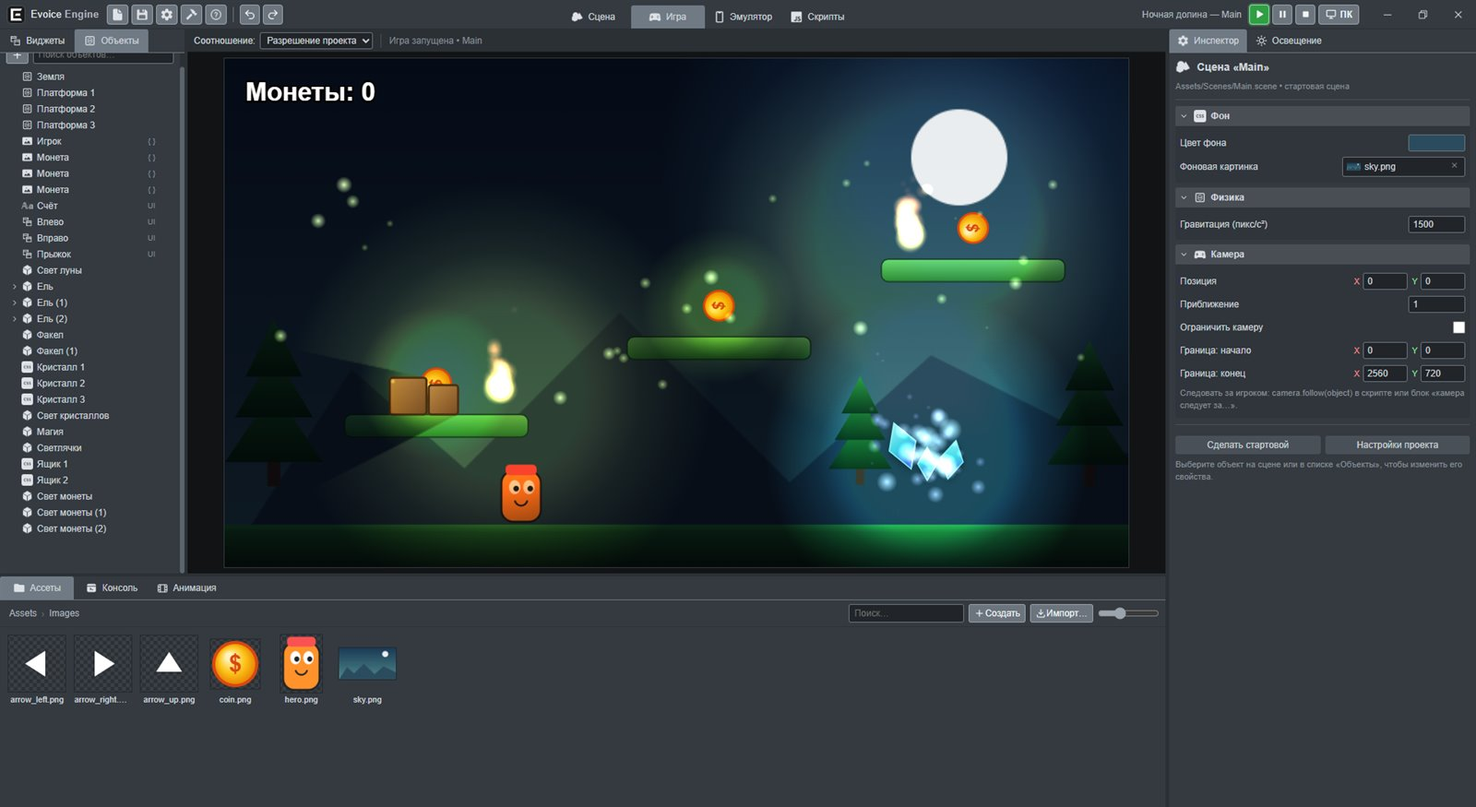
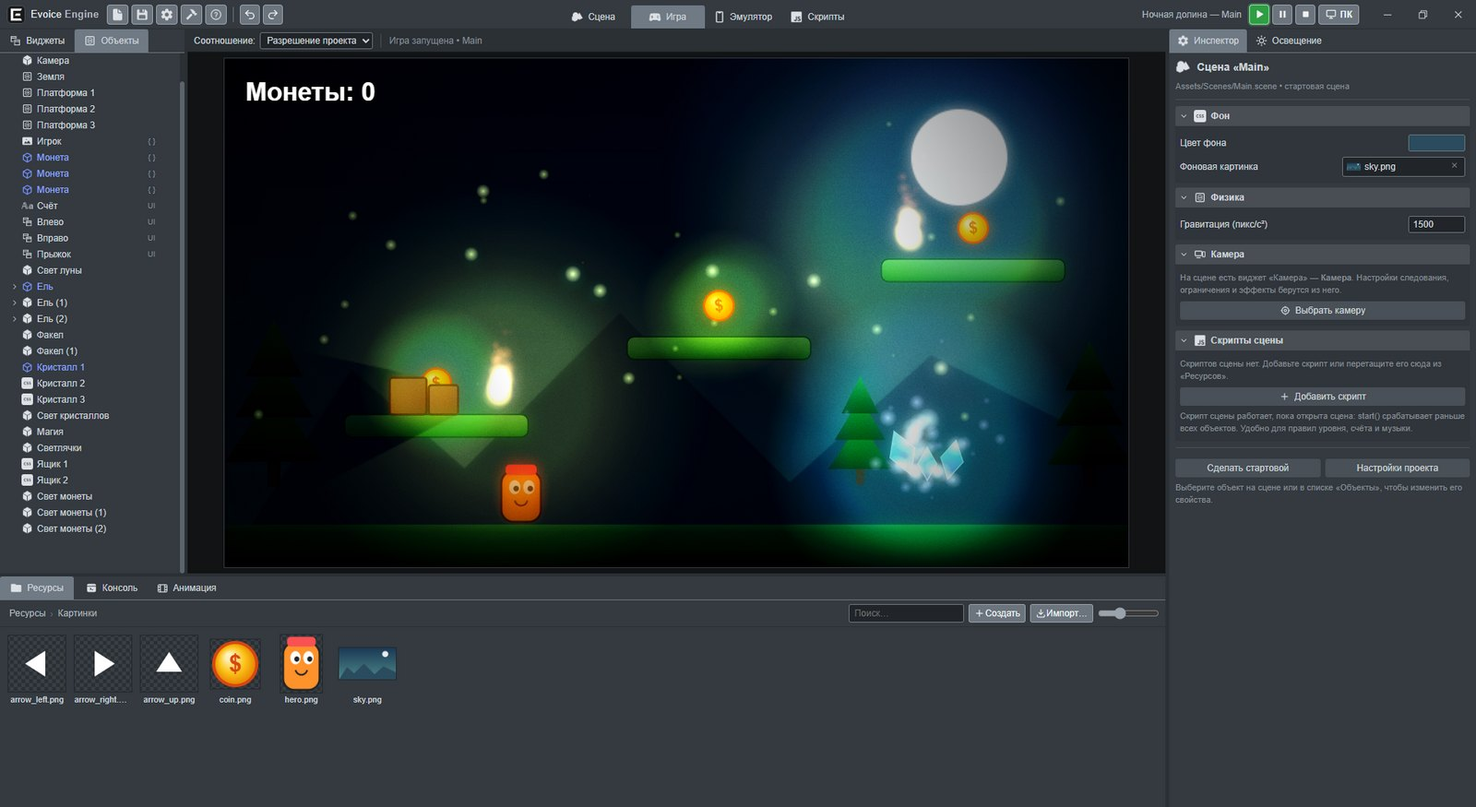
Обновить README: возможности версий 1.5 и новые скриншоты
Раздел «Что нового»: Evoice Remote, камера и постобработка, префабы,
готовое управление игроком, плавности анимации, менеджер проектов
с документацией и автообновлением.
Все скриншоты пересняты в текущей версии, старый список проектов
заменён новым менеджером проектов. В установке — Evoice-Remote.apk
и автообновление.

diff --git a/README.md b/README.md
@@ -13,7 +13,7 @@
 ![downloads](https://img.shields.io/github/downloads/Evoice-dev/Evoice-Engine-Releases/total?label=downloads&color=20c997)
 ![builds](https://img.shields.io/badge/builds-HTML5%20%7C%20Windows%20%7C%20Android-e8590c)
 
-[Возможности](#возможности) · [Скриншоты](#скриншоты) · [Установка](#установка) · [Лицензия](#лицензия)
+[Возможности](#возможности) · [Что нового](#что-нового) · [Скриншоты](#скриншоты) · [Установка](#установка) · [Лицензия](#лицензия)
 
 <br>
 
@@ -25,9 +25,9 @@
 
 ## О проекте
 
-**Evoice Engine** — визуальный редактор и движок для 2D игр в духе Unity, но проще. Собирайте сцену из готовых виджетов, программируйте блоками, как в Scratch, или пишите код на JavaScript и Python, проверяйте игру на эмуляторе телефона и собирайте её одной кнопкой для Яндекс Игр, Windows или Android.
+**Evoice Engine** — визуальный редактор и движок для 2D игр в духе Unity, но проще. Собирайте сцену из готовых виджетов и префабов, программируйте блоками, как в Scratch, или пишите код на JavaScript и Python. Проверяйте игру на эмуляторе телефона или прямо на своём Android-телефоне через приложение Evoice Remote и собирайте её одной кнопкой для Яндекс Игр, Windows или Android.
 
-> Здесь публикуются установщики и описания версий. Исходный код движка закрыт.
+> Здесь публикуются установщики, приложение Evoice Remote и описания версий. Исходный код движка закрыт.
 
 ## Возможности
 
@@ -36,61 +36,149 @@
 <td width="50%" valign="top">
 
 ### 🎬 Редактор в стиле Unity
-Сцена, дерево объектов, инспектор, ассеты, отмена и повтор. Якоря и адаптив под любые экраны, предпросмотр разных разрешений. Перетаскивание файлов прямо из проводника.
+Сцена, дерево объектов, инспектор, ресурсы, отмена и повтор. Якоря и адаптив под любые экраны, предпросмотр разных разрешений. Перетаскивание файлов прямо из проводника и ресурсов прямо в инспектор.
 
 </td>
 <td width="50%" valign="top">
 
 ### 🧩 Три способа программировать
-Блоки как в Scratch, JavaScript и Python с подсказками в редакторе. Глобальные переменные и доступ к переменным других скриптов. Списки, типы данных, функции.
+Блоки как в Scratch, JavaScript и Python с подсказками в редакторе. Глобальные переменные, скрипты сцены, доступ к переменным других скриптов. Списки, типы данных, функции.
 
 </td>
 </tr>
 <tr>
 <td valign="top">
 
-### 📱 Эмулятор телефона
-Популярные модели, портретная и альбомная ориентация, наклон (акселерометр), встряска, вибрация и экранный джойстик — всё проверяется без телефона.
+### 📦 Префабы
+Готовый объект со всеми компонентами, скриптами и дочерними объектами сохраняется в «Ресурсы» и ставится на любые сцены. Одна правка префаба обновляет все его копии во всех сценах.
 
 </td>
+<td valign="top">
+
+### 🎥 Камера и постобработка
+Камера — виджет на сцене: следование за игроком, плавность, границы. Виньетка, зерно, цвет, свечение, размытие, пикселизация и готовые наборы «Кино», «Ретро», «Ночь», «Ужас».
+
+</td>
+</tr>
+<tr>
+<td valign="top">
+
+### 🕹 Готовое управление
+Платформер, вид сверху, раннер или корабль — одним компонентом. Клавиатура, экранный джойстик и геймпад Xbox с вибрацией работают сразу.
+
+</td>
+<td valign="top">
+
+### 📱 Эмулятор и свой телефон
+Популярные модели, портретная и альбомная ориентация, наклон, встряска, вибрация. А с приложением **Evoice Remote** игра запускается на вашем телефоне с настоящими датчиками.
+
+</td>
+</tr>
+<tr>
 <td valign="top">
 
 ### ⚙ Физика и триггеры
-Rigidbody 2D и Collider 2D на Box2D, упругость и трение, триггер-зоны с событиями «вошёл» и «вышел».
+Rigidbody 2D и Collider 2D на Box2D, упругость, трение и заморозка осей, триггер-зоны с событиями «вошёл» и «вышел».
 
 </td>
-</tr>
-<tr>
 <td valign="top">
 
 ### ✨ Частицы и освещение
 Огонь, дым, искры, взрыв, магия, снег и дождь. 2D-освещение: точечный свет, прожекторы, общий свет, тени и мерцание.
 
 </td>
+</tr>
+<tr>
 <td valign="top">
 
-### 🎞 Анимации
-Таймлайн с ключевыми кадрами и плавностью переходов. Режим записи: двигайте объект — ключи создаются сами. Анимация градиентов и цвета.
+### 🎞 Анимация, атласы и видео
+Таймлайн с ключевыми кадрами, 18 готовых плавностей и режим записи. Атласы спрайтов с именованными анимациями, виджет «Видео» для MP4 и WebM.
+
+</td>
+<td valign="top">
+
+### 🔊 Звук
+Музыка и эффекты, пространственный звук, эхо, реверберация, фильтры и готовые наборы: пещера, под водой, рация.
 
 </td>
 </tr>
 <tr>
 <td valign="top">
 
-### 🔊 Звук
-Музыка и эффекты, пространственный звук (громкость и стерео по расстоянию до игрока), эхо, реверберация, фильтры и готовые наборы: пещера, под водой, рация.
+### 🚀 Сборка одной кнопкой
+HTML5 и Яндекс Игры, Windows `.exe`, Android `.apk` без Android Studio — нужные компоненты ставятся прямо из движка. Система сохранений с облаком Яндекс Игр.
 
 </td>
 <td valign="top">
 
-### 📦 Сборка одной кнопкой
-HTML5 и Яндекс Игры, Windows `.exe`, Android `.apk` без Android Studio — нужные компоненты ставятся прямо из движка. Система сохранений с облаком Яндекс Игр.
+### 🗂 Менеджер проектов
+Проекты с картинкой сцены, поиск и фильтры, документация с поиском. Новые версии движок находит и ставит сам.
 
 </td>
 </tr>
 </table>
 
-Полный список возможностей каждой версии — на странице **[Releases](https://github.com/Evoice-dev/Evoice-Engine-Releases/releases)**.
+Полный список изменений каждой версии — на странице **[Releases](https://github.com/Evoice-dev/Evoice-Engine-Releases/releases)**.
+
+## Что нового
+
+### 📱 Evoice Remote — игра на своём телефоне
+
+<table>
+<tr>
+<td width="28%" align="center"><img src="images/remote-phone.jpg" alt="Приложение Evoice Remote на телефоне"></td>
+<td width="72%"><img src="images/remote-mirror.jpg" alt="Эмулятор движка повторяет экран телефона"><p align="center"><sub>Игра идёт на телефоне, а вкладка «Эмулятор» повторяет его экран</sub></p></td>
+</tr>
+</table>
+
+Приложение для Android превращает ваш телефон в экран эмулятора. Нажмите «Запуск» на вкладке «Эмулятор» — игра откроется на телефоне, а движок покажет его экран.
+
+- Наклон, встряска, компас, касания несколькими пальцами и вибрация работают от настоящих датчиков.
+- Мышью и клавиатурой в эмуляторе тоже можно играть, сообщения и ошибки игры приходят в консоль движка.
+- Телефон и компьютер должны быть в одной сети Wi-Fi: приложение само находит компьютер с открытым проектом, а движок показывает уведомление о подключении.
+- Файл **`Evoice-Remote.apk`** приложен к каждому релизу. Его можно поставить и из движка: вкладка «Эмулятор» → «Телефон» → «Установить по USB».
+
+### 🎥 Камера и постобработка
+
+<table>
+<tr>
+<td width="50%"><img src="images/camera.jpg" alt="Камера и постобработка в Инспекторе"><p align="center"><sub><b>Камера</b> — рамка на сцене это кадр игры, эффекты настраиваются в Инспекторе</sub></p></td>
+<td width="50%"><img src="images/game.jpg" alt="Игра с постобработкой"><p align="center"><sub>Та же сцена в игре: <b>виньетка, свечение и зерно</b> поверх освещения</sub></p></td>
+</tr>
+</table>
+
+Камера — отдельный виджет: следует за объектом по обеим осям или только по одной, держит цель в нужной точке экрана, плавно догоняет и не выходит за границы уровня. Постобработка накладывается на изображение камеры: виньетка, зерно, яркость, контраст, насыщенность, температура, чёрно-белое, сепия, размытие и размытие в движении, свечение, хроматическая аберрация, пикселизация и строки старого экрана. Готовые наборы — «Кино», «Ретро», «Ночь», «Сон», «Ужас», «Старый телевизор» и другие. Интерфейс игры эффекты не затрагивают.
+
+### 📦 Префабы и 🕹 готовое управление
+
+<table>
+<tr>
+<td width="50%"><img src="images/prefabs.jpg" alt="Префабы в «Ресурсах» и Инспекторе"><p align="center"><sub><b>Префабы</b>: копии отмечены синим кубиком, «Применить» обновляет все копии</sub></p></td>
+<td width="50%"><img src="images/controller.jpg" alt="Компонент «Управление игроком»"><p align="center"><sub><b>Управление игроком</b> в шаблоне «Вид сверху»: стрелки, WASD, джойстик и геймпад</sub></p></td>
+</tr>
+</table>
+
+- **Префабы.** Настройте объект на сцене и перетащите его из списка «Объекты» в «Ресурсы» — получится префаб с превью. Поставьте его на любую сцену перетаскиванием или двойным щелчком. «Применить» обновляет префаб и все копии во всех сценах, «Сбросить» возвращает копию к префабу, «Отвязать» делает её обычным объектом. В коде — `game.spawnPrefab('Враг', x, y)`, в блоках — «создать префаб».
+- **Управление игроком** (Инспектор → «Добавить компонент»): платформер, вид сверху на 8 или 4 направления, раннер, корабль. Скорость, прыжок, двойной прыжок и разгон настраиваются в Инспекторе, нужная физика добавляется сама. Новый шаблон проекта — **«Вид сверху»**.
+- **Геймпад Xbox**: кнопки, стики, курки и вибрация — блоками и в коде.
+
+### 🎞 Анимация
+
+<img src="images/animation.jpg" alt="Таймлайн и плавности" width="100%">
+<p align="center"><sub><b>Таймлайн</b> с ключевыми кадрами и меню плавностей: у каждой — график кривой</sub></p>
+
+18 готовых плавностей — от линейной до отскока и пружины, «Отзеркалить» клип задом наперёд, по горизонтали или по вертикали. Атлас спрайта: поля и промежутки между кадрами, диапазон кадров, режим «туда-обратно» и именованные анимации. Виджет «Видео» (MP4, WebM), свой курсор мыши, выход из игры блоком и командой `game.quit()`.
+
+### 🗂 Менеджер проектов и автообновление
+
+<table>
+<tr>
+<td width="50%"><img src="images/hub.jpg" alt="Менеджер проектов"><p align="center"><sub><b>Менеджер проектов</b> — отдельное окно с картинками сцен</sub></p></td>
+<td width="50%"><img src="images/docs.jpg" alt="Документация в менеджере проектов"><p align="center"><sub><b>Документация</b> по API, блокам и Python с поиском</sub></p></td>
+</tr>
+</table>
+
+Проекты показываются с картинкой стартовой сцены и размером экрана. Есть поиск, фильтр по ориентации, вид сеткой или списком, импорт перетаскиванием папки. Новые версии движок находит сам: в менеджере проектов появляется кнопка «Обновить». Обновление скачивается из движка, проверяется подпись Evoice Studio, проекты остаются на месте.
 
 ## Скриншоты
 
@@ -103,26 +191,12 @@ HTML5 и Яндекс Игры, Windows `.exe`, Android `.apk` без Android St
 </tr>
 </table>
 
-### 🎞 Анимация
-
-<img src="images/animation.jpg" alt="Таймлайн анимации" width="100%">
-<p align="center"><sub><b>Таймлайн</b> — ключевые кадры, плавность переходов и компонент «Аниматор»: кристалл покачивается, растёт и мерцает</sub></p>
-
-### 🎮 Игра и эмулятор телефона
-
-<table>
-<tr>
-<td width="50%"><img src="images/game.jpg" alt="Запущенная игра"><p align="center"><sub><b>Запуск игры</b> одной кнопкой: светлячки, факелы и магия кристаллов</sub></p></td>
-<td width="50%"><img src="images/emulator.jpg" alt="Эмулятор телефона"><p align="center"><sub><b>Эмулятор</b> Google Pixel 7 в альбомной ориентации — с наклоном, встряской и экранными кнопками</sub></p></td>
-</tr>
-</table>
-
 ### 🧩 Блоки, JavaScript и Python
 
 <table>
 <tr>
 <td width="50%"><img src="images/blocks.jpg" alt="Блочное программирование"><p align="center"><sub><b>Блоки</b> в стиле Scratch: триггеры, глобальные переменные, звук с эффектами</sub></p></td>
-<td width="50%"><img src="images/blocks-toolbox.jpg" alt="Категория блоков «Свет и частицы»"><p align="center"><sub>Категории блоков — например, <b>«Свет и частицы»</b></sub></p></td>
+<td width="50%"><img src="images/blocks-toolbox.jpg" alt="Категория блоков «Камера»"><p align="center"><sub>Категории блоков — например, <b>«Камера»</b> с эффектами</sub></p></td>
 </tr>
 <tr>
 <td><img src="images/code-js.jpg" alt="JavaScript с автодополнением"><p align="center"><sub><b>JavaScript</b> с автодополнением по всему API движка</sub></p></td>
@@ -130,15 +204,15 @@ HTML5 и Яндекс Игры, Windows `.exe`, Android `.apk` без Android St
 </tr>
 </table>
 
-### 📦 Сборка и проекты
+### 📱 Эмулятор и сборка
 
 <table>
 <tr>
+<td width="60%"><img src="images/emulator.jpg" alt="Эмулятор телефона"><p align="center"><sub><b>Эмулятор</b> Google Pixel 7 в альбомной ориентации — с наклоном, встряской и экранными кнопками</sub></p></td>
 <td width="40%" rowspan="2" align="center"><img src="images/build.jpg" alt="Окно сборки игры"><p align="center"><sub><b>Сборка</b> для HTML5, Windows и Android — компоненты Android ставятся из движка</sub></p></td>
-<td width="60%"><img src="images/hub.jpg" alt="Список проектов"><p align="center"><sub><b>Список проектов</b> со значками и датами</sub></p></td>
 </tr>
 <tr>
-<td><img src="images/splash.jpg" alt="Заставка при запуске"><p align="center"><sub>Заставка при запуске</sub></p></td>
+<td align="center"><img src="images/splash.jpg" alt="Заставка при запуске" width="60%"><p align="center"><sub>Заставка при запуске</sub></p></td>
 </tr>
 </table>
 
@@ -148,13 +222,18 @@ HTML5 и Яндекс Игры, Windows `.exe`, Android `.apk` без Android St
 2. Запустите установщик и следуйте шагам — ярлык появится на рабочем столе и в меню «Пуск».
 3. Если Windows покажет окно «Система Windows защитила ваш компьютер», нажмите **«Подробнее» → «Выполнить в любом случае»**: установщик пока не подписан сертификатом.
 
+Дальше движок обновляется сам: когда выходит новая версия, в менеджере проектов появляется кнопка «Обновить».
+
+Чтобы запускать игры на своём телефоне, установите на него **`Evoice-Remote.apk`** из того же релиза или из движка: вкладка «Эмулятор» → «Телефон».
+
 | Системные требования | |
 |---|---|
 | Система | Windows 10 или 11, 64-бит |
 | Место на диске | около 500 МБ |
 | Сборка игр для Android | интернет при первой установке компонентов (около 300 МБ, ставятся из движка) |
+| Evoice Remote | телефон на Android 7.0 или новее в одной сети Wi-Fi с компьютером |
 
-После запуска откроется список проектов — нажмите «Новый проект» и выберите шаблон «Платформер», «Кликер» или «Пустой проект». Справка по API и блокам открывается в движке клавишей <kbd>F1</kbd>, руководство пользователя лежит в папке программы.
+После запуска откроется менеджер проектов — нажмите «Новый проект» и выберите шаблон «Платформер», «Вид сверху», «Кликер» или «Пустой проект». Документация открывается в менеджере проектов (раздел «Документация») и в движке клавишей <kbd>F1</kbd>, руководство пользователя лежит в папке программы.
 
 ## Лицензия
 
